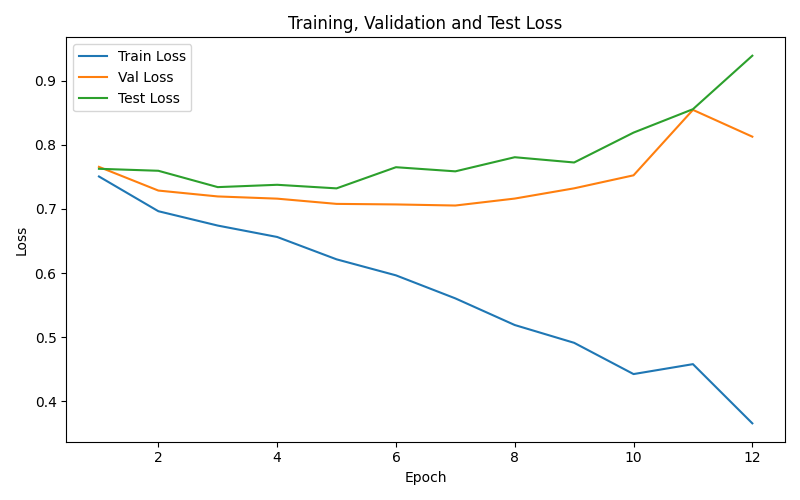
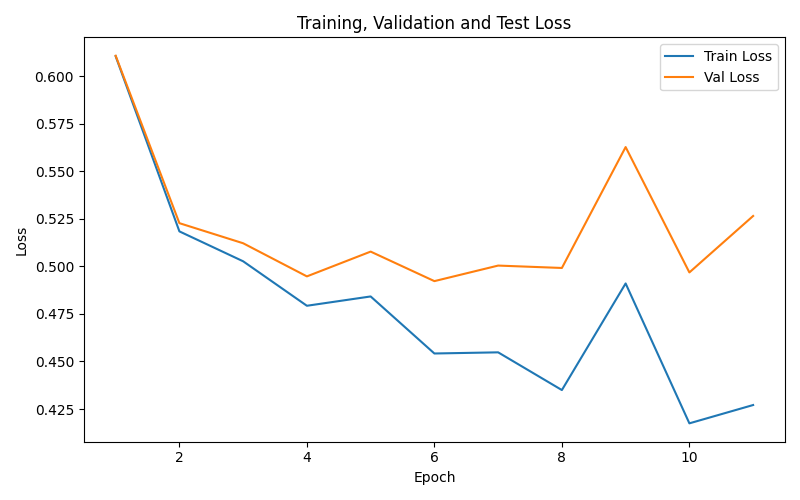
simple attention implementation

diff --git a/main.py b/main.py
@@ -12,6 +12,7 @@ from config import EMB_PATH
 from dataloading import SentenceDataset
 from early_stopper import EarlyStopper
 from models import BaselineDNN, LSTM
+from attention import SimpleSelfAttentionModel
 from training import train_dataset, eval_dataset, get_metrics_report, torch_train_val_split
 from utils.load_datasets import load_MR, load_Semeval2017A
 from utils.load_embeddings import load_word_vectors
@@ -78,10 +79,15 @@ test_loader = DataLoader(test_set, batch_size=BATCH_SIZE, shuffle=False)
 # Model Definition, Training, and Evaluation
 #############################################################################
 
-model = LSTM(output_size=1 if n_classes == 2 else n_classes,
-                    embeddings=embeddings,
-                    trainable_emb=EMB_TRAINABLE,
-                    bidirectional=True)
+# model = LSTM(output_size=1 if n_classes == 2 else n_classes,
+#                     embeddings=embeddings,
+#                     trainable_emb=EMB_TRAINABLE,
+#                     bidirectional=True)
+
+model = SimpleSelfAttentionModel(output_size=1 if n_classes == 2 else n_classes,
+                                embeddings=embeddings,
+                                max_length=60)
+
 model.to(DEVICE)
 print(model)
 
@@ -103,11 +109,9 @@ for epoch in range(1, EPOCHS + 1):
 
     train_loss, _ = eval_dataset(train_loader, model, criterion)
     val_loss, _ = eval_dataset(val_loader, model, criterion)
-    test_loss, _ = eval_dataset(test_loader, model, criterion)
 
     train_losses.append(train_loss)
     val_losses.append(val_loss)
-    test_losses.append(test_loss)
 
     if early_stopper.early_stop(val_loss):
         print(f"Early stopping at epoch {epoch}")
@@ -116,8 +120,8 @@ for epoch in range(1, EPOCHS + 1):
 # Load best model before evaluating
 model.load_state_dict(torch.load('best_model.pt'))
 
-train_loss, (y_train_pred, y_train_gold) = eval_dataset(train_loader, model, criterion)
-test_loss, (y_test_pred, y_test_gold) = eval_dataset(test_loader, model, criterion)
+_, (y_train_pred, y_train_gold) = eval_dataset(train_loader, model, criterion)
+_, (y_test_pred, y_test_gold) = eval_dataset(test_loader, model, criterion)
 
 print(f"\n{'='*50}")
 print(f"Final Metrics on {DATASET}:")
@@ -128,7 +132,6 @@ print(f"\nTest set:\n{get_metrics_report(y_test_gold, y_test_pred)}")
 plt.figure(figsize=(8, 5))
 plt.plot(range(1, len(train_losses) + 1), train_losses, label='Train Loss')
 plt.plot(range(1, len(val_losses) + 1), val_losses, label='Val Loss')
-plt.plot(range(1, len(test_losses) + 1), test_losses, label='Test Loss')
 plt.xlabel('Epoch')
 plt.ylabel('Loss')
 plt.title(f'Training, Validation and Test Loss')

diff --git a/attention.py b/attention.py
@@ -68,19 +68,16 @@ class SimpleSelfAttentionModel(nn.Module):
         self.ln1 = nn.LayerNorm(dim)
         self.ln2 = nn.LayerNorm(dim)
 
-        # TODO: Main-lab-Q3 - define output classification layer
-        self.output = ...
+        self.output = nn.Linear(dim, output_size)
 
-    def forward(self, x):
+    def forward(self, x, lengths=None):
         B, T = x.shape
         tok_emb = self.token_embedding_table(x)  # (B,T,C)
         pos_emb = self.position_embedding_table(torch.arange(T))  # (T,C)
         x = tok_emb + pos_emb  # (B,T,C)
         x = x + self.sa(self.ln1(x))
         x = x + self.ffwd(self.ln2(x))
-
-        # TODO: Main-lab-Q3 - avg pooling to get a sentence embedding
-        x = ...  # (B,C)
+        x = x.mean(dim=1)  # (B,C)
 
         logits = self.output(x)  # (C,output)
         return logits
